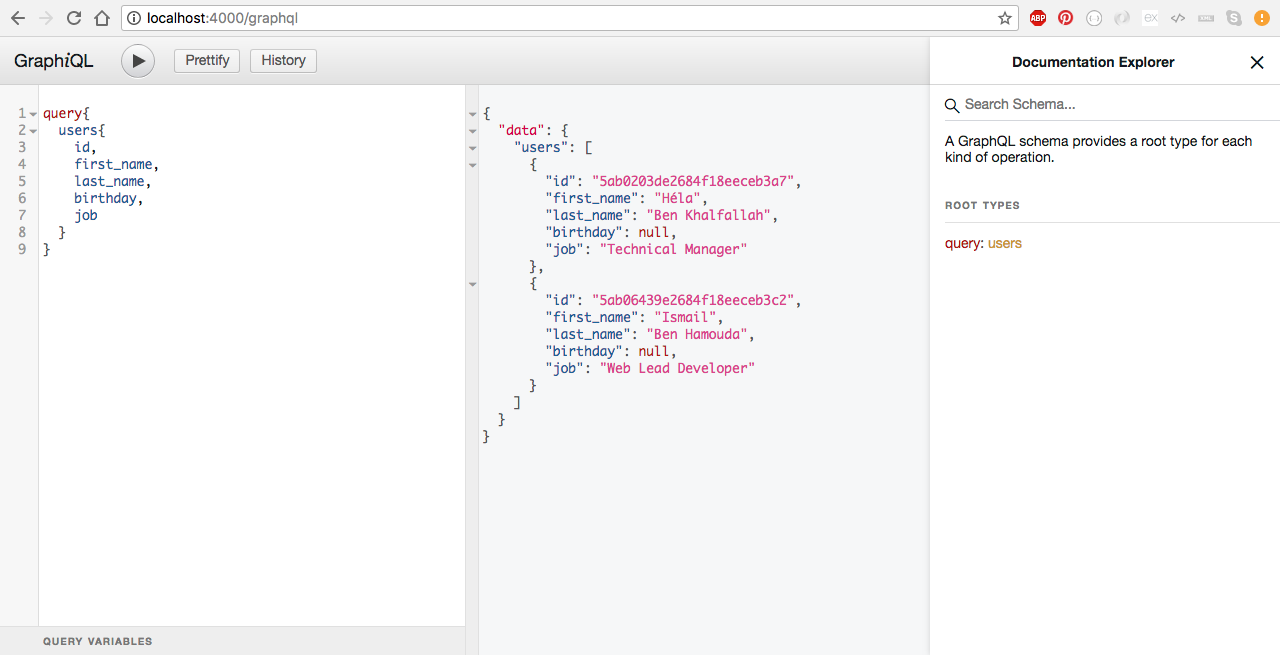
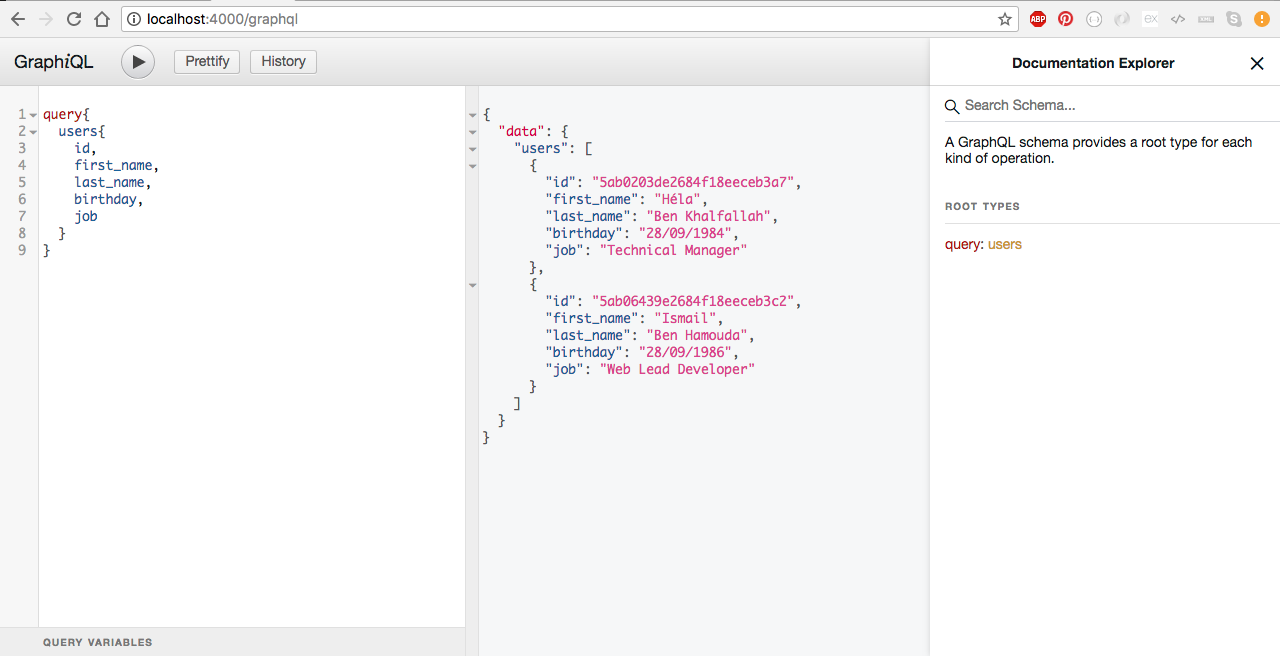
[gql-server] update readme and add assets folder

diff --git a/models/UserModel.js b/models/UserModel.js
@@ -6,7 +6,7 @@ let userSchema = mongoose.Schema(
   {
     first_name: String,
     last_name: String,
-    birthdaye: String,
+    birthday: String,
     job: String,
   },
   {

diff --git a/README.md b/README.md
@@ -109,7 +109,7 @@ let userSchema = mongoose.Schema(
   {
     first_name: String,
     last_name: String,
-    birthdaye: String,
+    birthday: String,
     job: String,
   },
   {
